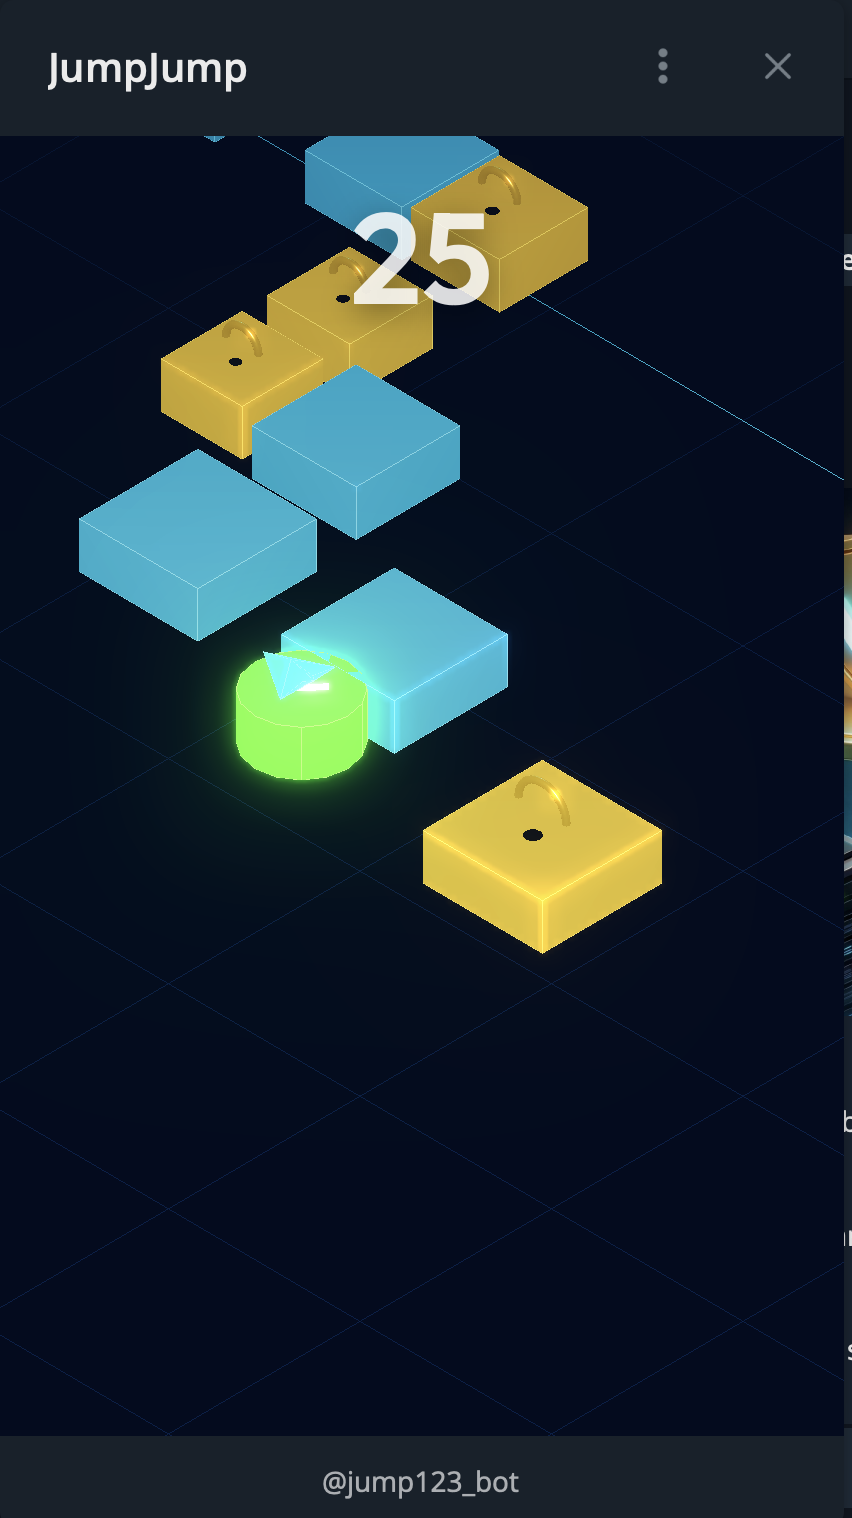
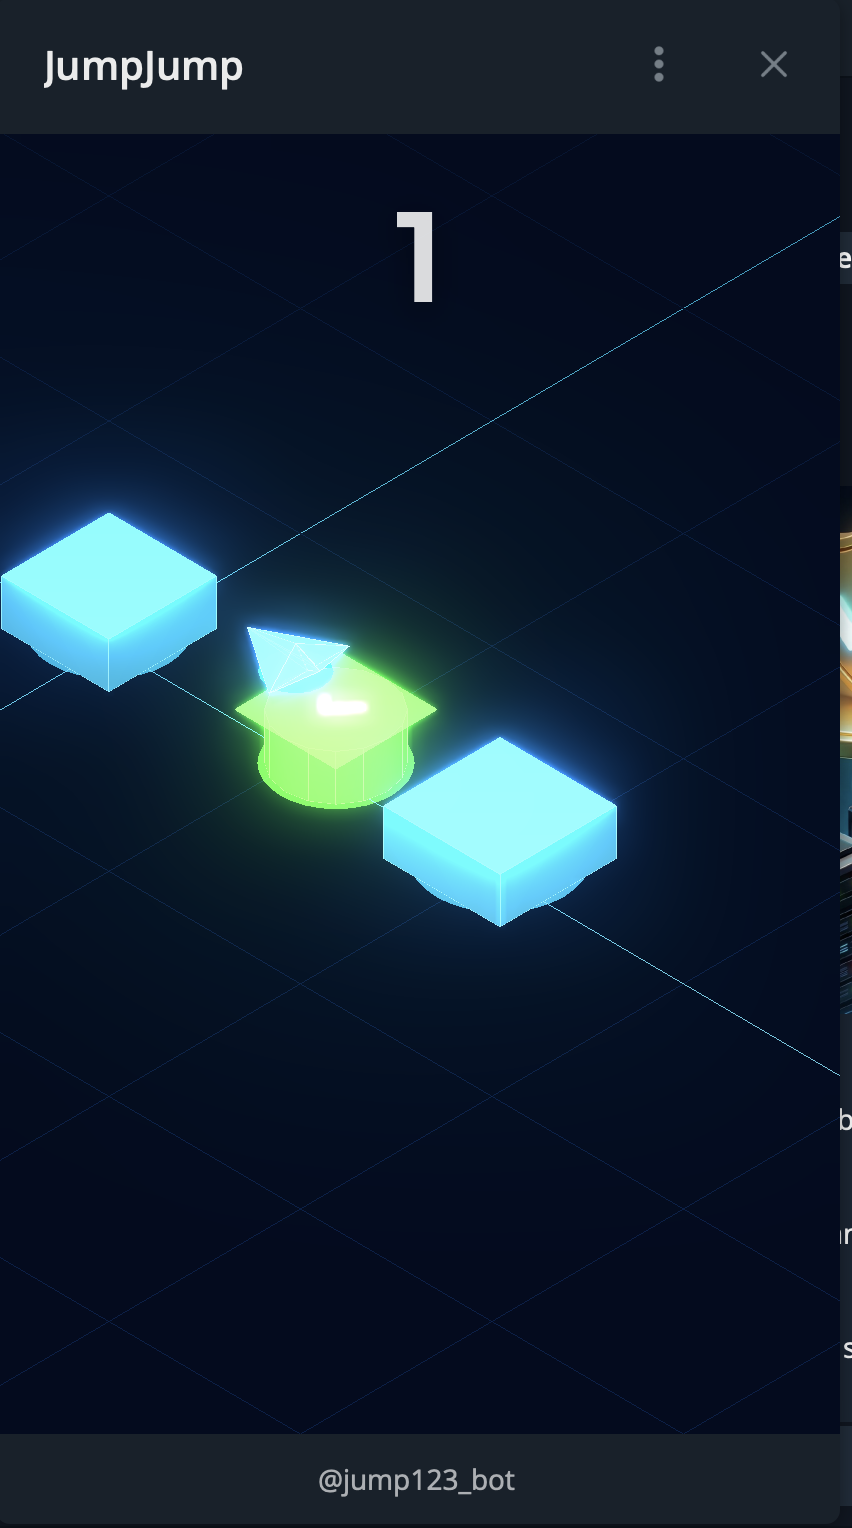
更新视觉体验

diff --git a/client/src/game/Platform.ts b/client/src/game/Platform.ts
@@ -1,4 +1,5 @@
 import * as THREE from 'three';
+import { RoundedBoxGeometry } from 'three/examples/jsm/geometries/RoundedBoxGeometry.js';
 import {
   PLATFORM_HEIGHT,
   PLATFORM_SINK_AMOUNT,
@@ -53,21 +54,24 @@ export class Platform {
 
   private createBubble(): THREE.Mesh {
     const s = this.size;
-    const geo = new THREE.BoxGeometry(s, PLATFORM_HEIGHT, s);
+    const geo = new RoundedBoxGeometry(s, PLATFORM_HEIGHT, s, 4, 0.05);
 
-    const mat = new THREE.MeshStandardMaterial({
-      color: 0x44CCEE, // Bright cyan surface
-      emissive: COLORS.CYAN,
-      emissiveIntensity: 0.3,
-      roughness: 0.05,
-      metalness: 0.6,
+    const mat = new THREE.MeshPhysicalMaterial({
+      color: COLORS.CYAN,
+      roughness: 0.2,
+      metalness: 0.1,
+      clearcoat: 1.0,
+      clearcoatRoughness: 0.1,
     });
 
-    // Glowing edge lines (MeshBasicMaterial so bloom picks them up)
-    this.addGlowingEdges(geo, COLORS.CYAN);
-
-    // Bottom glow ring
-    this.addBottomGlow(s, COLORS.CYAN);
+    // Add a small "tail" triangle (message bubble tail)
+    const tailGeo = new THREE.ConeGeometry(0.12, 0.18, 3);
+    const tailMat = mat.clone();
+    const tail = new THREE.Mesh(tailGeo, tailMat);
+    tail.position.set(-s / 2 - 0.06, -PLATFORM_HEIGHT / 2 + 0.08, -s / 2 + 0.2);
+    tail.rotation.z = Math.PI / 2 + 0.3;
+    tail.castShadow = true;
+    this.decorations.add(tail);
 
     return new THREE.Mesh(geo, mat);
   }
@@ -75,19 +79,16 @@ export class Platform {
   /** Green verification checkmark cylinder */
   private createCheckmark(): THREE.Mesh {
     const r = this.size / 2;
-    const geo = new THREE.CylinderGeometry(r, r, PLATFORM_HEIGHT, 16);
-    const mat = new THREE.MeshStandardMaterial({
-      color: 0x33DD44, // Bright green surface
-      emissive: COLORS.TG_GREEN,
-      emissiveIntensity: 0.4,
-      roughness: 0.05,
-      metalness: 0.5,
+    const geo = new THREE.CylinderGeometry(r, r, PLATFORM_HEIGHT, 32);
+    const mat = new THREE.MeshPhysicalMaterial({
+      color: COLORS.TG_GREEN,
+      roughness: 0.2,
+      metalness: 0.1,
+      clearcoat: 1.0,
+      clearcoatRoughness: 0.1,
     });
 
-    this.addGlowingEdges(geo, COLORS.TG_GREEN);
-    this.addBottomGlow(r * 2, COLORS.TG_GREEN);
-
-    // Add checkmark on top
+    // Add checkmark on top (bright emissive so it glows)
     this.addCheckmarkSymbol(r);
 
     return new THREE.Mesh(geo, mat);
@@ -105,8 +106,8 @@ export class Platform {
     shape.lineTo(-s * 0.45, s * 0.15);
     shape.closePath();
 
-    const geo = new THREE.ExtrudeGeometry(shape, { depth: 0.03, bevelEnabled: false });
-    const mat = new THREE.MeshStandardMaterial({ color: 0xffffff, emissive: 0xffffff, emissiveIntensity: 0.5, roughness: 0.1 });
+    const geo = new THREE.ExtrudeGeometry(shape, { depth: 0.03, bevelEnabled: true, bevelSegments: 2, steps: 1, bevelSize: 0.01, bevelThickness: 0.01 });
+    const mat = new THREE.MeshStandardMaterial({ color: 0xffffff, emissive: 0xffffff, emissiveIntensity: 1.0, roughness: 0.1 });
     const check = new THREE.Mesh(geo, mat);
     check.rotation.x = -Math.PI / 2;
     check.position.y = PLATFORM_HEIGHT / 2 + 0.02;
@@ -116,26 +117,22 @@ export class Platform {
   /** Golden padlock */
   private createPadlock(): THREE.Mesh {
     const s = this.size;
-    const geo = new THREE.BoxGeometry(s, PLATFORM_HEIGHT, s);
+    const geo = new RoundedBoxGeometry(s, PLATFORM_HEIGHT, s, 4, 0.05);
     
-    const mat = new THREE.MeshStandardMaterial({
-      color: 0xEEBB33, // Bright warm gold surface
-      emissive: 0xDD9900,
-      emissiveIntensity: 0.3,
-      roughness: 0.05,
-      metalness: 0.9,
+    const mat = new THREE.MeshPhysicalMaterial({
+      color: COLORS.PADLOCK_GOLD,
+      roughness: 0.2,
+      metalness: 0.4,
+      clearcoat: 1.0,
+      clearcoatRoughness: 0.1,
     });
 
-    this.addGlowingEdges(geo, COLORS.PADLOCK_GOLD);
-
-    // Add lock shackle on top
-    const shackleGeo = new THREE.TorusGeometry(s * 0.2, 0.04, 8, 16, Math.PI);
+    // Add lock shackle on top (bright gold)
+    const shackleGeo = new THREE.TorusGeometry(s * 0.2, 0.04, 16, 32, Math.PI);
     const shackleMat = new THREE.MeshStandardMaterial({
       color: COLORS.PADLOCK_GOLD,
-      emissive: COLORS.PADLOCK_GOLD,
-      emissiveIntensity: 0.5,
-      roughness: 0.05,
-      metalness: 0.9,
+      roughness: 0.1,
+      metalness: 0.8,
     });
     const shackle = new THREE.Mesh(shackleGeo, shackleMat);
     shackle.position.y = PLATFORM_HEIGHT / 2 + s * 0.15;
@@ -143,8 +140,8 @@ export class Platform {
     this.decorations.add(shackle);
 
     // Keyhole
-    const keyGeo = new THREE.CircleGeometry(s * 0.06, 12);
-    const keyMat = new THREE.MeshStandardMaterial({ color: 0x0A0A0A, roughness: 0.8 });
+    const keyGeo = new THREE.CircleGeometry(s * 0.08, 32);
+    const keyMat = new THREE.MeshStandardMaterial({ color: 0x111111, roughness: 0.8 });
     const keyhole = new THREE.Mesh(keyGeo, keyMat);
     keyhole.position.set(0, PLATFORM_HEIGHT / 2 + 0.01, s * 0.08);
     keyhole.rotation.x = -Math.PI / 2;
@@ -156,70 +153,33 @@ export class Platform {
   /** Dark server rack */
   private createServer(): THREE.Mesh {
     const s = this.size;
-    const geo = new THREE.BoxGeometry(s, PLATFORM_HEIGHT * 1.2, s * 0.7);
+    const geo = new RoundedBoxGeometry(s, PLATFORM_HEIGHT * 1.2, s * 0.7, 4, 0.03);
     const mat = new THREE.MeshStandardMaterial({
-      color: 0x2A2A3E, // Dark indigo
-      emissive: 0x1A1A2E,
-      emissiveIntensity: 0.15,
-      roughness: 0.05,
-      metalness: 0.9,
+      color: COLORS.SERVER_DARK,
+      roughness: 0.3,
+      metalness: 0.2,
     });
-
-    this.addGlowingEdges(geo, 0x4488AA);
 
     // LED dots on top — bright emissive
     for (let i = 0; i < 3; i++) {
-      const ledGeo = new THREE.SphereGeometry(0.04, 8, 8);
-      const ledColor = [0x00ff66, 0xff2244, 0xff8800][i];
-      const ledMat = new THREE.MeshStandardMaterial({ color: ledColor, emissive: ledColor, emissiveIntensity: 3.0 });
+      const ledGeo = new THREE.SphereGeometry(0.04, 16, 16);
+      const ledColor = [COLORS.TG_GREEN, COLORS.CRIMSON, COLORS.PADLOCK_GOLD][i];
+      const ledMat = new THREE.MeshStandardMaterial({ color: ledColor, emissive: ledColor, emissiveIntensity: 2.0 });
       const led = new THREE.Mesh(ledGeo, ledMat);
-      led.position.set(-s * 0.2 + i * s * 0.2, PLATFORM_HEIGHT * 0.6 + 0.02, -s * 0.2);
+      led.position.set(-s * 0.2 + i * s * 0.2, PLATFORM_HEIGHT * 0.6 + 0.01, -s * 0.2);
       this.decorations.add(led);
     }
 
-    // Horizontal rack lines — bright cyan
+    // Horizontal rack lines
     for (let i = 0; i < 2; i++) {
-      const lineGeo = new THREE.BoxGeometry(s * 0.8, 0.025, 0.025);
-      const lineMat = new THREE.MeshStandardMaterial({ color: 0x00C8FF, emissive: 0x00C8FF, emissiveIntensity: 1.0, roughness: 0.0, metalness: 0.0 });
+      const lineGeo = new RoundedBoxGeometry(s * 0.8, 0.02, 0.02, 2, 0.005);
+      const lineMat = new THREE.MeshStandardMaterial({ color: 0x475569, roughness: 0.4, metalness: 0.5 });
       const line = new THREE.Mesh(lineGeo, lineMat);
       line.position.set(0, PLATFORM_HEIGHT * 0.6 + 0.01, -s * 0.05 + i * s * 0.2);
       this.decorations.add(line);
     }
 
     return new THREE.Mesh(geo, mat);
-  }
-
-  /** Add glowing edge outlines using MeshBasicMaterial (participates in Bloom). */
-  private addGlowingEdges(geo: THREE.BufferGeometry, color: number): void {
-    const edgesGeo = new THREE.EdgesGeometry(geo);
-    // Use MeshBasicMaterial — it outputs full brightness which triggers Bloom
-    const edgesMat = new THREE.LineBasicMaterial({ color, linewidth: 2 });
-    const edges = new THREE.LineSegments(edgesGeo, edgesMat);
-    this.decorations.add(edges);
-
-    // Additionally add thin glowing box outlines on top & bottom edges for Bloom pickup
-    // Top edge glow strip
-    const topGlowGeo = new THREE.BoxGeometry(
-      geo.boundingBox ? geo.boundingBox.max.x * 2 : this.size,
-      0.015,
-      geo.boundingBox ? geo.boundingBox.max.z * 2 : this.size
-    );
-    geo.computeBoundingBox();
-    const h = geo.boundingBox ? geo.boundingBox.max.y : PLATFORM_HEIGHT / 2;
-    const topGlowMat = new THREE.MeshBasicMaterial({ color, transparent: true, opacity: 0.7 });
-    const topGlow = new THREE.Mesh(topGlowGeo, topGlowMat);
-    topGlow.position.y = h;
-    this.decorations.add(topGlow);
-  }
-
-  /** Add a subtle glow ring underneath a platform. */
-  private addBottomGlow(size: number, color: number): void {
-    const ringGeo = new THREE.RingGeometry(size * 0.4, size * 0.55, 32);
-    const ringMat = new THREE.MeshBasicMaterial({ color, transparent: true, opacity: 0.4, side: THREE.DoubleSide });
-    const ring = new THREE.Mesh(ringGeo, ringMat);
-    ring.rotation.x = -Math.PI / 2;
-    ring.position.y = -PLATFORM_HEIGHT / 2 - 0.01;
-    this.decorations.add(ring);
   }
 
   /** Sink platform during charge. */

diff --git a/client/src/game/Scene.ts b/client/src/game/Scene.ts
@@ -28,7 +28,7 @@ export class GameScene {
     this.renderer.shadowMap.enabled = true;
     this.renderer.shadowMap.type = THREE.PCFSoftShadowMap;
     this.renderer.toneMapping = THREE.ACESFilmicToneMapping;
-    this.renderer.toneMappingExposure = 1.5;
+    this.renderer.toneMappingExposure = 1.0; // Normal exposure
     container.appendChild(this.renderer.domElement);
 
     // ── Lighting ──
@@ -42,17 +42,17 @@ export class GameScene {
   }
 
   private setupLights(): void {
-    // Ambient — brighter so objects aren't lost in shadow
-    const ambient = new THREE.AmbientLight(COLORS.AMBIENT, 1.0);
+    // Soft ambient
+    const ambient = new THREE.AmbientLight(0xffffff, 0.4);
     this.scene.add(ambient);
 
-    // Hemisphere (sky / ground) — blue sky, dark ground
-    const hemi = new THREE.HemisphereLight(0x4488cc, 0x112244, 0.6);
+    // Hemisphere (sky / ground)
+    const hemi = new THREE.HemisphereLight(0xffffff, 0x444444, 0.4);
     this.scene.add(hemi);
 
-    // Main directional (key light)
-    const dir = new THREE.DirectionalLight(COLORS.DIRECTIONAL, 1.8);
-    dir.position.set(8, 18, 10);
+    // Main directional (key light) - cast soft shadows
+    const dir = new THREE.DirectionalLight(0xffffff, 1.0);
+    dir.position.set(5, 10, 7);
     dir.castShadow = true;
     dir.shadow.mapSize.set(2048, 2048);
     dir.shadow.camera.left   = -CAMERA_FRUSTUM * 2;
@@ -64,28 +64,22 @@ export class GameScene {
     dir.shadow.bias = -0.001;
     this.scene.add(dir);
 
-    // Blue fill light — gives the cyberpunk tint from below-left
-    const fill = new THREE.DirectionalLight(0x2288FF, 0.5);
+    // Fill light
+    const fill = new THREE.DirectionalLight(0x90b0d0, 0.5);
     fill.position.set(-5, 3, -5);
     this.scene.add(fill);
-
-    // Cyan point light that follows camera area for extra glow
-    const pointLight = new THREE.PointLight(0x00C8FF, 0.8, 30);
-    pointLight.position.set(0, 8, 0);
-    this.scene.add(pointLight);
   }
 
   private setupGround(): void {
-    // Cyberpunk Neon Grid — brighter primary, visible secondary
-    const gridHelper = new THREE.GridHelper(200, 80, 0x00C8FF, 0x1A3050);
+    // Very subtle, clean grid
+    const gridHelper = new THREE.GridHelper(200, 80, 0xffffff, 0xffffff);
     gridHelper.position.y = -0.5;
-    // Make grid lines translucent but visible
     const mat = gridHelper.material;
     if (Array.isArray(mat)) {
-      mat.forEach(m => { m.transparent = true; m.opacity = 0.6; });
+      mat.forEach(m => { m.transparent = true; m.opacity = 0.05; });
     } else {
       mat.transparent = true;
-      mat.opacity = 0.6;
+      mat.opacity = 0.05;
     }
     this.scene.add(gridHelper);
   }

diff --git a/client/src/game/Player.ts b/client/src/game/Player.ts
@@ -78,40 +78,19 @@ export class Player {
     geo.setAttribute('position', new THREE.BufferAttribute(vertices, 3));
     geo.setIndex(indices);
     geo.computeVertexNormals();
-
-    // ── Bright translucent blue material (like poster) ──
-    const mat = new THREE.MeshStandardMaterial({
-      color: 0x44AAEE,         // Bright TG blue
-      emissive: 0x00BBFF,      // Strong cyan-blue glow
-      emissiveIntensity: 0.8,
+    const mat = new THREE.MeshPhysicalMaterial({
+      color: 0x38BDF8,         // Clean Sky Blue
+      emissive: 0x0284C7,      // Very subtle deeper blue emissive
+      emissiveIntensity: 0.2,
       side: THREE.DoubleSide,
       flatShading: true,
-      roughness: 0.0,
-      metalness: 0.3,
-      transparent: true,
-      opacity: 0.9,
+      roughness: 0.1,
+      metalness: 0.1,
+      clearcoat: 1.0,
+      clearcoatRoughness: 0.1,
     });
 
     const mesh = new THREE.Mesh(geo, mat);
-
-    // ── Glowing cyan wireframe edges (Bloom will pick this up) ──
-    const edgesGeo = new THREE.EdgesGeometry(geo);
-    const edgesMat = new THREE.LineBasicMaterial({ color: 0x88EEFF });
-    const edges = new THREE.LineSegments(edgesGeo, edgesMat);
-    mesh.add(edges);
-
-    // ── Bottom glow disc (ground reflection halo) ──
-    const glowGeo = new THREE.CircleGeometry(0.5 * s, 16);
-    const glowMat = new THREE.MeshBasicMaterial({
-      color: 0x00CCFF,
-      transparent: true,
-      opacity: 0.25,
-      side: THREE.DoubleSide,
-    });
-    const glow = new THREE.Mesh(glowGeo, glowMat);
-    glow.rotation.x = -Math.PI / 2;
-    glow.position.y = -0.15 * s;
-    mesh.add(glow);
 
     return mesh;
   }

diff --git a/client/src/utils/Constants.ts b/client/src/utils/Constants.ts
@@ -43,24 +43,24 @@ export const DIFFICULTY_DIST_INCREMENT = 0.08;
 export const DIFFICULTY_SIZE_DECREMENT = 0.03;
 export const MIN_PLATFORM_SIZE = 0.55;
 
-// ─── Colors (Cyberpunk Theme) ───
+// ─── Colors (Premium 3D Aesthetic) ───
 export const COLORS = {
-  BG_TOP:        0x0B1628, // Deep navy blue (matches poster atmosphere)
-  BG_BOTTOM:     0x091220,
-  CYAN:          0x00C8FF, // Vivid Cyan
-  CRIMSON:       0xFF2244, // Bright Red
-  PURPLE:        0xB026FF, // Electric Purple
-  TG_BLUE:       0x2AABEE, // Telegram Blue — keep recognizable
-  TG_BLUE_DARK:  0x0B1628,
-  TG_GREEN:      0x39FF14, // Neon green
-  PADLOCK_GOLD:  0xFFC800, // Brighter gold
-  SERVER_DARK:   0x1A1A2E, // Dark indigo for server base
-  PLAYER_WHITE:  0x2A2A3A, // Stealth grey-blue
-  PLAYER_ACCENT: 0x00C8FF, // Cyan accent
+  BG_TOP:        0x0F172A, // Slate 900 (Tailwind)
+  BG_BOTTOM:     0x020617, // Slate 950
+  CYAN:          0x38BDF8, // Light Sky Blue
+  CRIMSON:       0xF43F5E, // Rose
+  PURPLE:        0xA855F7, // Purple
+  TG_BLUE:       0x0EA5E9, // Sky 500
+  TG_BLUE_DARK:  0x0369A1, // Sky 700
+  TG_GREEN:      0x22C55E, // Green 500
+  PADLOCK_GOLD:  0xF59E0B, // Amber 500
+  SERVER_DARK:   0x1E293B, // Slate 800
+  PLAYER_WHITE:  0xF8FAFC, // Clean white plane
+  PLAYER_ACCENT: 0x38BDF8,
   SHADOW:        0x000000,
-  AMBIENT:       0x556688,
+  AMBIENT:       0xFFFFFF,
   DIRECTIONAL:   0xFFFFFF,
-  GROUND:        0x0B1628,
+  GROUND:        0x0F172A,
 };
 
 // ─── Platform Types ───

diff --git a/client/src/game/Game.ts b/client/src/game/Game.ts
@@ -83,9 +83,9 @@ export class Game {
 
     const bloomPass = new UnrealBloomPass(
       new THREE.Vector2(container.clientWidth, container.clientHeight),
-      1.2, // strength — how far glow extends
-      0.5, // radius — softness of glow
-      0.3  // threshold — lower = more things glow
+      0.8, // strength
+      0.4, // radius
+      0.85 // threshold (only very bright things glow)
     );
     this.composer.addPass(bloomPass);
 
